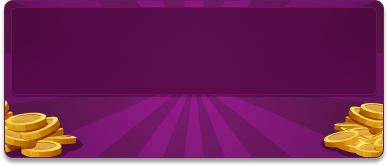
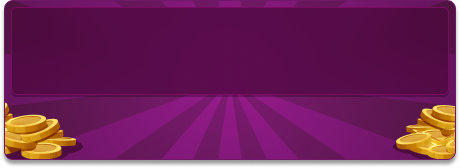
fix placement of elements on map item

Changed region(s): [[0.0309, 0.0, 1.0, 0.9639], [0.0, 0.6024, 0.2165, 0.9639], [0.0, 0.0, 0.0309, 0.5422]]

diff --git a/src/styles/chain-offers.scss b/src/styles/chain-offers.scss
@@ -89,14 +89,10 @@
 }
 
 .chain-offer-map-item {
-  position: relative;
-  display: flex;
-  flex-direction: column;
-  justify-content: space-between;
   background-image: var(--offer-step-background-image, none);
-  background-repeat: no-repeat;
+  background-size: cover;
   background-position: center;
-
+  background-repeat: no-repeat;
   width: 100%;
   height: 100%;
   border-radius: 0.5rem; // 8px - matches offer-step-border-radius
@@ -106,25 +102,27 @@
     pointer-events: none;
   }
 
-  &__content {
-    display: grid;
-    grid-template-rows: 6fr 4fr;
-    height: 100%;
-    padding: 16px;
-  }
-
   &__offers {
     display: flex;
     align-items: center;
     justify-content: center;
-    flex-wrap: wrap;
-    gap: 16px;
+    gap: 0.5rem; // 8px - matches original --offers-gap
+    min-height: 61%; // matches original --offers-min-height
+
+    @media screen and (max-width: 25.875rem) and (orientation: portrait) {
+      min-height: 61%;
+    }
   }
 
   &__button-container {
     display: flex;
-    align-items: center;
     justify-content: center;
+    align-items: center;
+    min-height: 39%; // matches original --btn-box-min-height
+
+    @media screen and (max-width: 25.875rem) and (orientation: portrait) {
+      min-height: 43%; // matches original --btn-box-min-height-mobile
+    }
   }
 
   &__divider {

diff --git a/src/components/ChainOfferMapItem.tsx b/src/components/ChainOfferMapItem.tsx
@@ -67,18 +67,16 @@ export const ChainOfferMapItem: React.FC<ChainOfferMapItemProps> = ({
   return (
     <div ref={wrapperRefCallback} className={getWrapperClass()}>
       <div ref={itemRefCallback} className={getItemClass()}>
-        <div className="chain-offer-map-item__content">
-          <div className="chain-offer-map-item__offers">
-            <ChainOfferMapRewards rewards={rewards} />
-          </div>
-          <div className="chain-offer-map-item__button-container">
-            <ChainOfferMapButton
-              status={status}
-              type={type}
-              price={price}
-              onClick={handleButtonClick}
-            />
-          </div>
+        <div className="chain-offer-map-item__offers">
+          <ChainOfferMapRewards rewards={rewards} />
+        </div>
+        <div className="chain-offer-map-item__button-container">
+          <ChainOfferMapButton
+            status={status}
+            type={type}
+            price={price}
+            onClick={handleButtonClick}
+          />
         </div>
       </div>
       {showDivider && (
